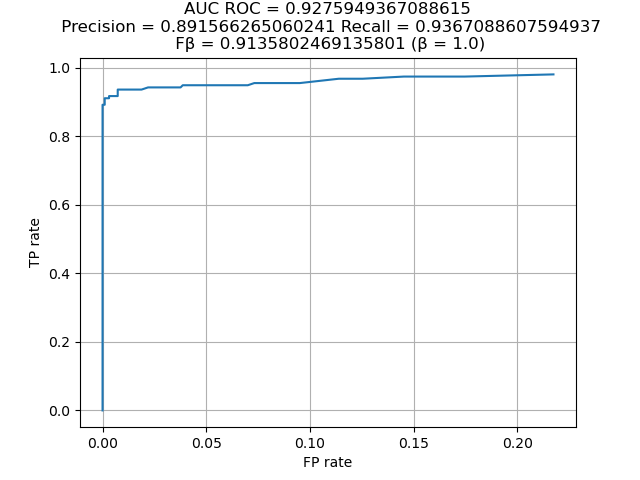
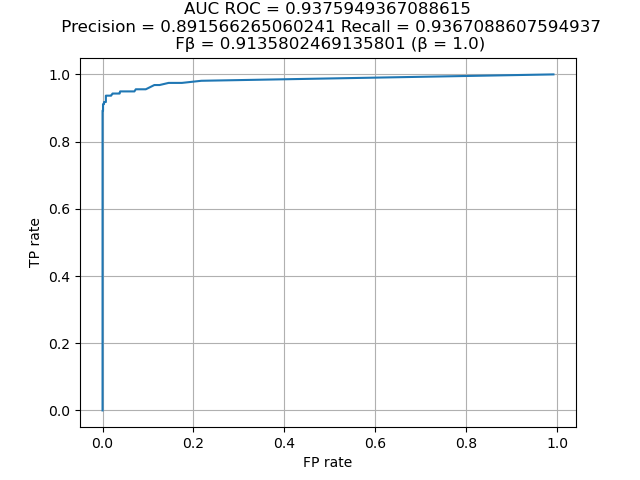
commit

diff --git a/main_ROC.py b/main_ROC.py
@@ -73,11 +73,11 @@ FP_rate = []
 
 AUC_ROC = 0
 
-for i in range(100):
+for i in range(101):
 
 	TP, FP, TN, FN = 0, 0, 0, 0
 
-	threshold = 0.01 * (i + 1)
+	threshold = 0.01 * (i)
 	for res in results:
 		y = int(res[0] > threshold)
 
